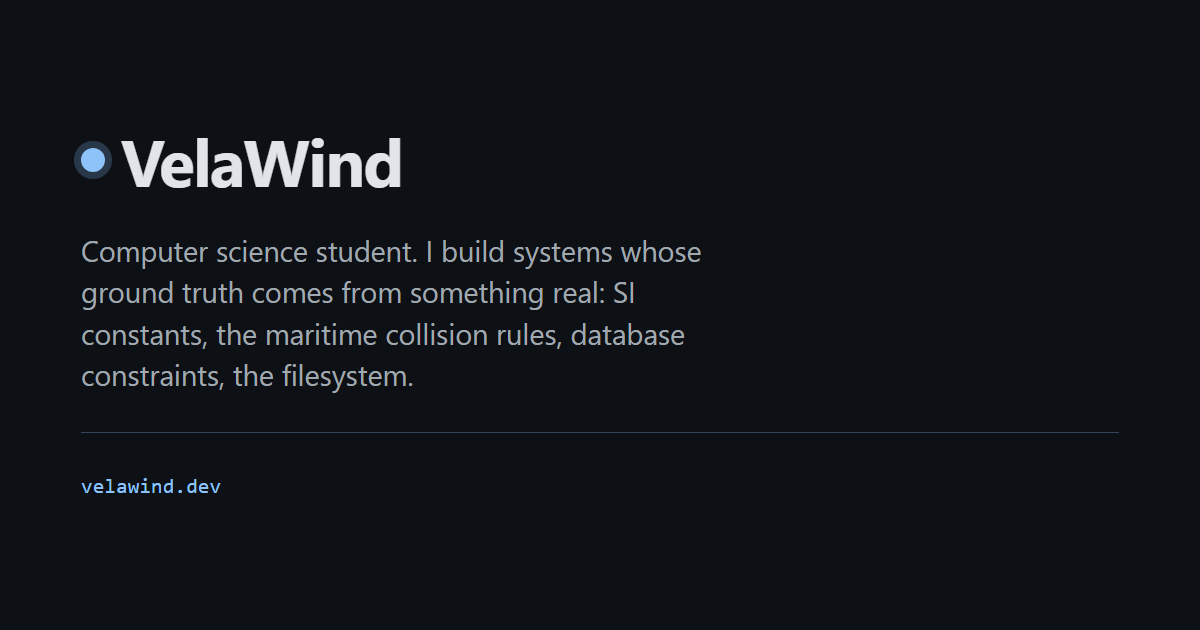
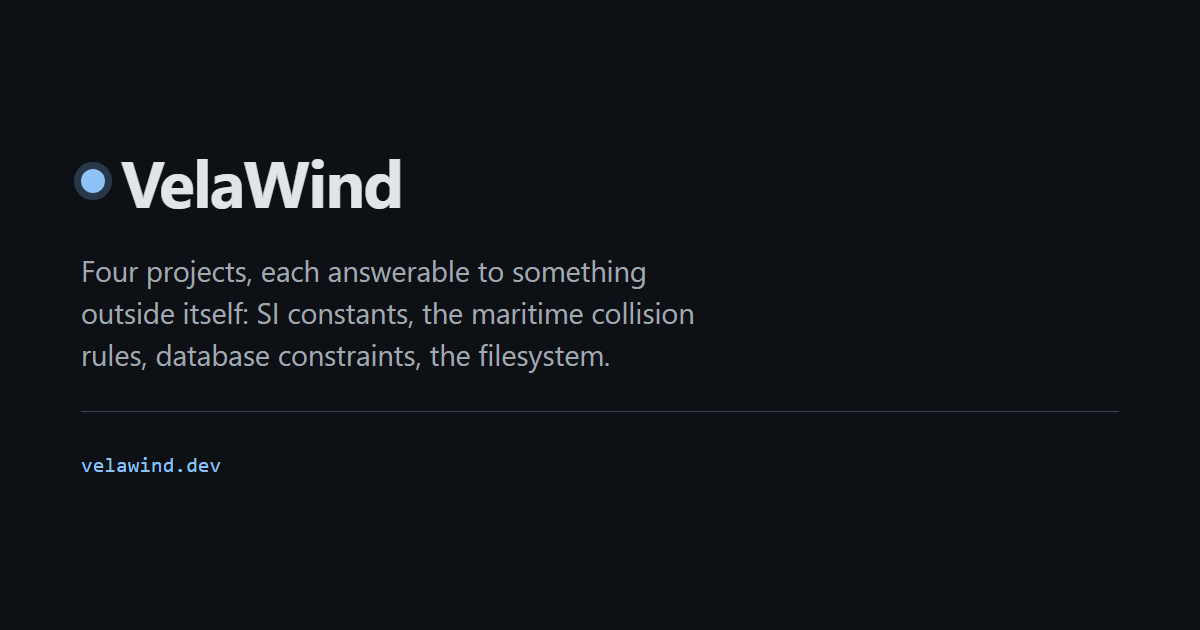
The opening line belongs to the work, on the page and on the card
The lede said "Computer science student" in the first two words of the site,
and the same sentence was in two more places, one of them pixels: the
og:image alt on every route, and public/og.png itself, drawn there by
scripts/make-og-image.js. Pasting a link anywhere that unfurls - Slack,
LinkedIn, a job portal - published the phrase in image data, invisible from
the page. That was the largest remaining leak.

The new line is "Four projects, each answerable to something outside
itself", and it takes over the colon list the old sentence carried: SI
constants, the maritime collision rules, database constraints, the
filesystem - four grounds, one per project, in the order the cards show
them. "Ground truth comes from something real" is cut rather than kept,
because the new opening already says it.

The card is regenerated from the same line (the generator's comment - kept
identical to the one on the home page - stays true), and both alt
attributes now quote the whole line the picture shows, list included; the
old alt trimmed the quote at the first colon. Verified rather than assumed:
the rebuilt PNG reads 1200x630 in its own header, which is what
og:image:width and og:image:height declare, and all four built routes carry
the new alt in both og:image:alt and twitter:image:alt.

The lede's box is load-bearing in two tests. The arrival check still sees
it readable in time, and five consecutive dark-scheme rendered-contrast
[…]

Changed region(s): [[0.0617, 0.3921, 0.5858, 0.6333], [0.0617, 0.2111, 0.3392, 0.3317], [0.0617, 0.7238, 0.185, 0.7841]]

diff --git a/scripts/make-og-image.js b/scripts/make-og-image.js
@@ -32,9 +32,8 @@ const tokens = readFileSync(join(ROOT, 'src/styles/global.css'), 'utf8');
 
 // The positioning line, kept identical to the one on the home page.
 const LEDE =
-  'Computer science student. I build systems whose ground truth comes from ' +
-  'something real: SI constants, the maritime collision rules, database ' +
-  'constraints, the filesystem.';
+  'Four projects, each answerable to something outside itself: SI constants, ' +
+  'the maritime collision rules, database constraints, the filesystem.';
 
 /*
  * data-theme="dark" rather than a media query, so the card is dark whatever the
